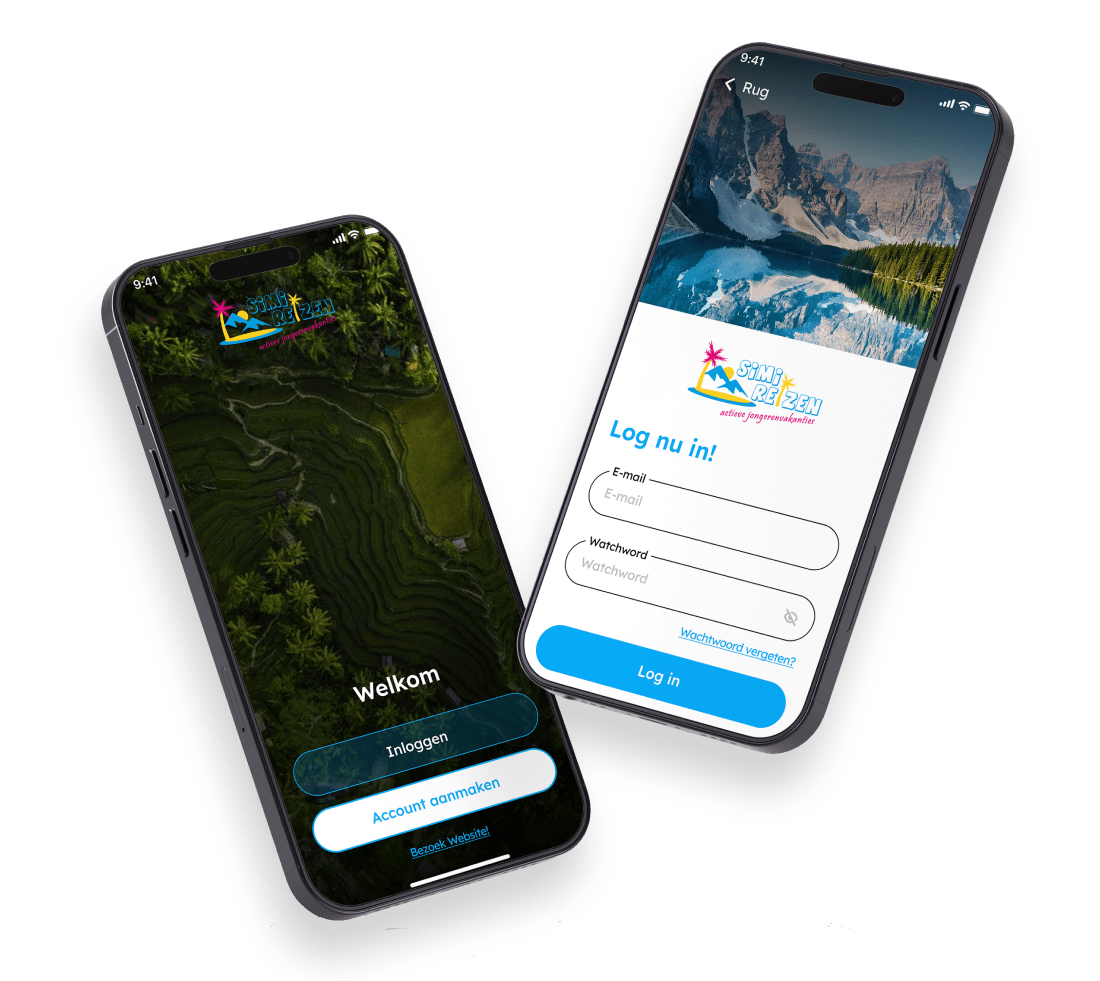
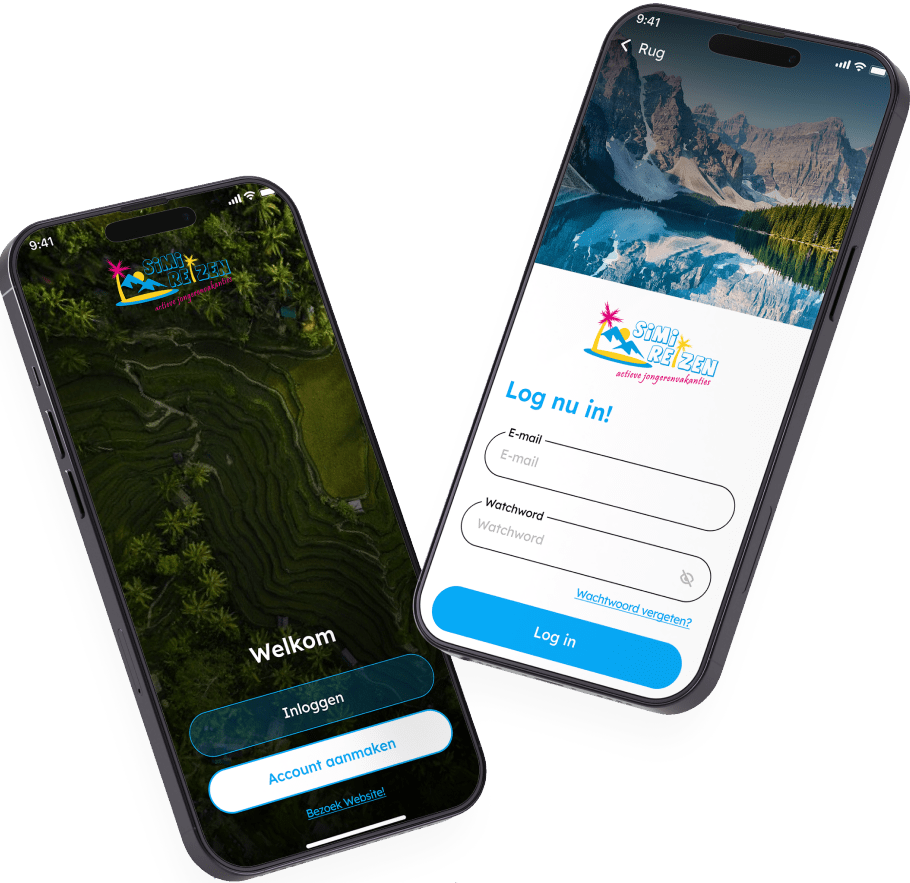
v8.9.f

diff --git a/app/(portfolio)/(mobileapps)/(casestudy)/simireizen/page.tsx b/app/(portfolio)/(mobileapps)/(casestudy)/simireizen/page.tsx
@@ -100,7 +100,7 @@ export default function Simireizen() {
                   </div>
                 </div>
               </div>
-              <div className="w-full items-center justify-end flex flex-col  bg-srbg3 bg-cover bg-center   bg-no-repeat relative h-full">
+              <div className="w-full items-center justify-end flex flex-col  bg-srbg3 bg-cover bg-top   bg-no-repeat relative h-full">
                 <div className="h-96 p-2 bg-red-800 "></div>
                 <div className="w-11/12 items-center justify-center flex flex-col text-center gap-5  p-10 mt-20">
                   <span className="text-6xl uppercase font-semibold">
@@ -118,30 +118,134 @@ export default function Simireizen() {
                     defines Simi Reizen.
                   </span>
                 </div>
-                <div className="w-full flex items-center justify-center pt-10">
-                  <div className=" flex items-center   ">
-                    <Image
-                      className=" relativepos "
-                      src="/mobileapps/sr/Component 8.png"
-                      alt="Background 1"
-                      fill
-                    />
+                <div className=" w-11/12 grid grid-cols-12 items-center justify-center py-10 h-full">
+                  <div className="col-span-3 items-end justify-center h-full flex ">
+                    <div className=" flex items-center w-7/12  ">
+                      <Image
+                        className=" relativepos "
+                        src="/mobileapps/sr/Component 8.png"
+                        alt="Background 1"
+                        fill
+                      />
+                    </div>
                   </div>
-                  <div className=" flex items-center   ">
-                    <Image
-                      className=" relativepos "
-                      src="/mobileapps/sr/iphone2.png"
-                      alt="Background 1"
-                      fill
-                    />
+                  <div className="col-span-6 items-end justify-end h-full">
+                    <div className=" flex items-center  w-full  ">
+                      <Image
+                        className=" relativepos "
+                        src="/mobileapps/sr/iphone2.png"
+                        alt="Background 1"
+                        fill
+                      />
+                    </div>
                   </div>
-                  <div className=" flex items-center   ">
-                    <Image
-                      className=" relativepos "
-                      src="/mobileapps/sr/Component 8.png"
-                      alt="Background 1"
-                      fill
-                    />
+
+                  <div className="col-span-3 items-center justify-center flex  ">
+                    <div className=" flex items-center w-7/12  ">
+                      <Image
+                        className=" relativepos "
+                        src="/mobileapps/sr/Component 8.png"
+                        alt="Background 1"
+                        fill
+                      />
+                    </div>
+                  </div>
+                </div>
+
+                <div className="w-11/12  grid grid-cols-12  items-center  ">
+                  <div className="col-span-4 ">
+                    <div className=" flex items-center w-11/12   ">
+                      <Image
+                        className=" relativepos "
+                        src="/mobileapps/sr/iphone3.png"
+                        alt="Background 1"
+                        fill
+                      />
+                    </div>
+                  </div>
+                  <div className="col-span-8 flex flex-col items-start justify-center ">
+                    <div className="p-8 rounded-lg  mx-auto">
+                      <h2 className="text-xl font-medium mb-2 ">
+                        Problem Statement
+                      </h2>
+                      <h1 className="text-6xl font-bold  mb-8">
+                        Let’s go deeper with places and routes
+                      </h1>
+                      <p className=" mb-6 text-xl font-medium">
+                        Simi Reizen, a renowned adventure travel agency,
+                        recognized the need to modernize its customer engagement
+                        and booking processes.
+                        <br></br> <br></br>Users faced difficulties navigating
+                        the website, booking trips, and managing their
+                        itineraries, which resulted in a suboptimal user
+                        experience.
+                      </p>
+
+                      <h3 className="text-4xl font-medium mb-4">
+                        Problem Include
+                      </h3>
+
+                      <div className="flex gap-10 items-center">
+                        <div className="flex gap-3 items-center">
+                          <div className=" flex items-center  ">
+                            <Image
+                              className=" relativepos "
+                              src="/mobileapps/sr/location.png"
+                              alt="Background 1"
+                              fill
+                            />
+                          </div>
+                          <h4 className="font-medium text-2xl">
+                            Navigating The <br></br> Website
+                          </h4>
+                        </div>
+                        <div className="flex gap-3 items-center">
+                          <div className=" flex items-center  ">
+                            <Image
+                              className=" relativepos "
+                              src="/mobileapps/sr/clickicon.png"
+                              alt="Background 1"
+                              fill
+                            />
+                          </div>
+                          <h4 className="font-medium text-2xl">
+                            Booking Trips
+                          </h4>
+                        </div>
+                        <div className="flex gap-3 items-center">
+                          <div className=" flex items-center  ">
+                            <Image
+                              className=" relativepos "
+                              src="/mobileapps/sr/clickicon.png"
+                              alt="Background 1"
+                              fill
+                            />
+                          </div>
+                          <h4 className="font-medium text-2xl">
+                            Need For Modernization
+                          </h4>
+                        </div>
+                      </div>
+                      <div className="flex gap-5 pt-10 w-full items-center justify-between">
+                        <div className=" flex items-center   ">
+                          <Image
+                            className=" relativepos "
+                            src="/mobileapps/sr/Frame 6.png"
+                            alt="Background 1"
+                            fill
+                          />
+                        </div>
+
+                        <div className=" flex items-center  ">
+                          <Image
+                            className=" relativepos "
+                            src="/mobileapps/sr/Frame 6 (1).png"
+                            alt="Background 1"
+                            fill
+                          />
+                        </div>
+                      </div>
+                    </div>
                   </div>
                 </div>
               </div>
